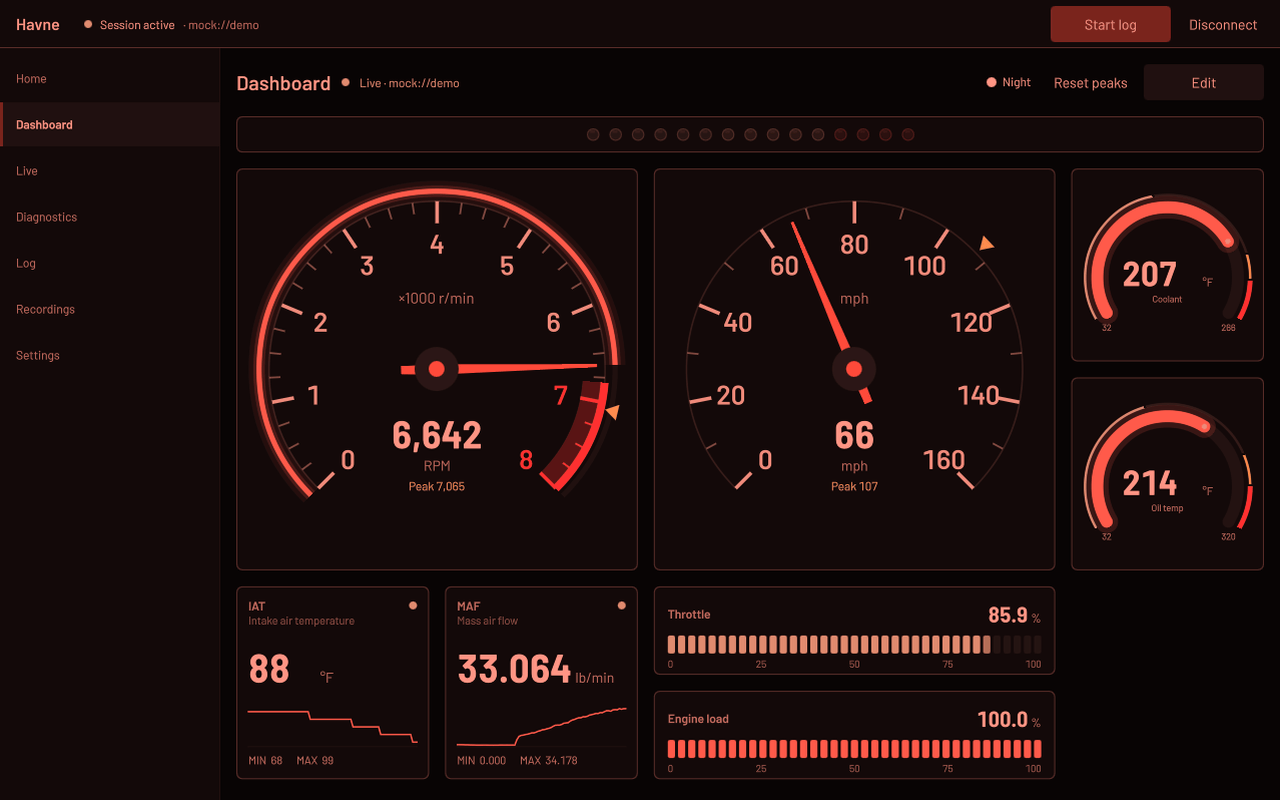
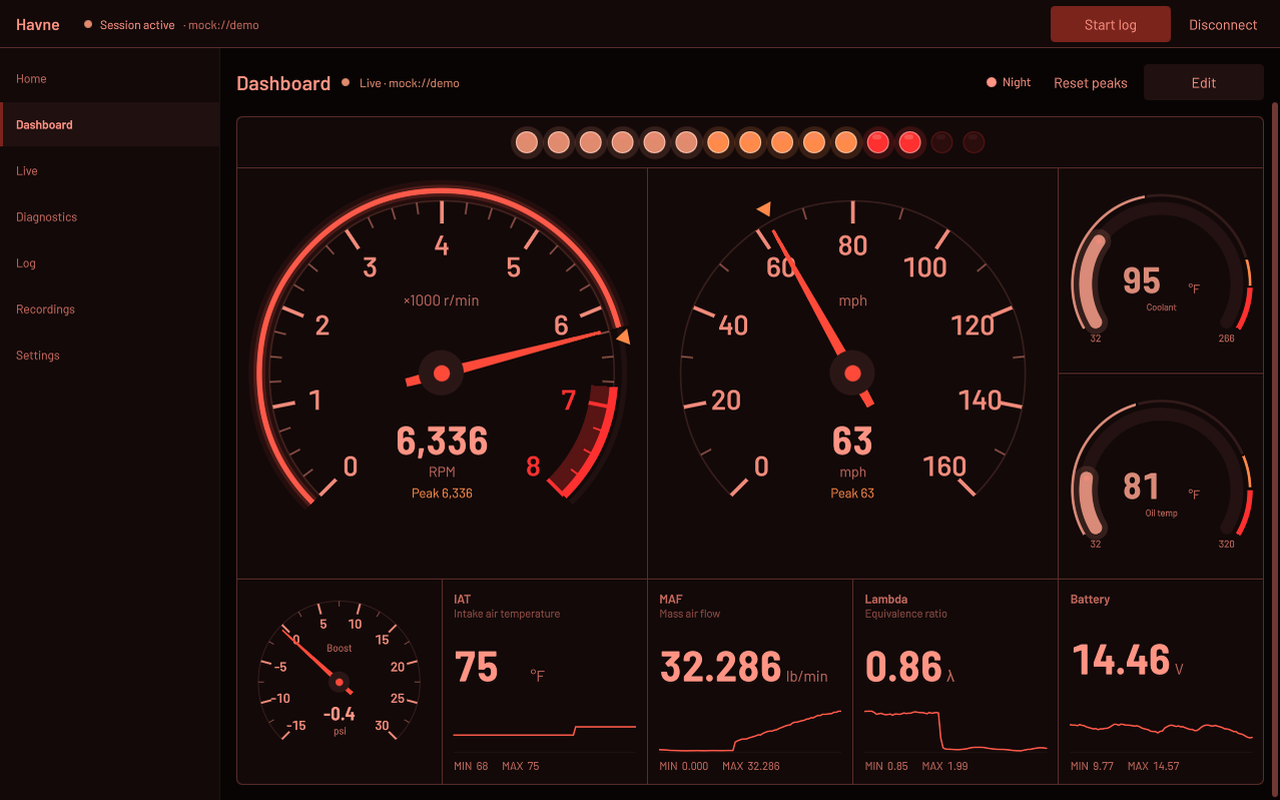
docs: retake the desktop Dashboard and Home for v0.7.2
The README's Dashboard clip, the Night stills and Home show v0.7.2's built-in layout and Home. The gallery gains the Dashboard in the Light look, and its opening says so.

diff --git a/docs/screenshots.md b/docs/screenshots.md
@@ -3,10 +3,10 @@
 Every page of Havne on the desktop and the phone, all on the simulated
 vehicle (`mock://demo`) in US units. Dark is the default look; Night
 dims it for a dark cabin in amber or red (Settings, Display). The
-gallery shows those three: Dark, and Night in amber and red. Display's
-Look row also offers Light, dark text on white, and the desktop's
-Dashboard is one panel with its pages as tabs, neither of which these
-shots show. The README shows a few of these.
+gallery shows those looks on the Dashboard: Dark, Light (dark text on
+white, from Display's Look row) and Night in amber and red. The desktop's
+Dashboard is one panel with its pages as tabs, which these shots don't
+show. The README shows a few of these.
 
 - **Desktop:** the Windows app at 1280x800.
 - **Phone:** Live, Codes, the Log and Settings are from the test phone
@@ -23,9 +23,9 @@ shots show. The README shows a few of these.
 *A quarter mile on the warmed-up vehicle: the launch, each upshift, and
 coolant and oil climbing toward the fan's cut-in.*
 
-| Night, amber | Night, red |
-|---|---|
-| [![The Dashboard in Night's amber style in a 2nd-gear pull at 5,925 rpm](images/desktop-dashboard-amber.png)](images/desktop-dashboard-amber.png) | [![The Dashboard in Night's red style in a 2nd-gear pull at 6,642 rpm](images/desktop-dashboard-red.png)](images/desktop-dashboard-red.png) |
+| Light | Night, amber | Night, red |
+|---|---|---|
+| [![The Dashboard in the Light look in a 2nd-gear pull at 5,849 rpm](images/desktop-dashboard-light.png)](images/desktop-dashboard-light.png) | [![The Dashboard in Night's amber style in a 2nd-gear pull at 6,051 rpm](images/desktop-dashboard-amber.png)](images/desktop-dashboard-amber.png) | [![The Dashboard in Night's red style in a 2nd-gear pull at 6,336 rpm](images/desktop-dashboard-red.png)](images/desktop-dashboard-red.png) |
 
 ### Live
 
